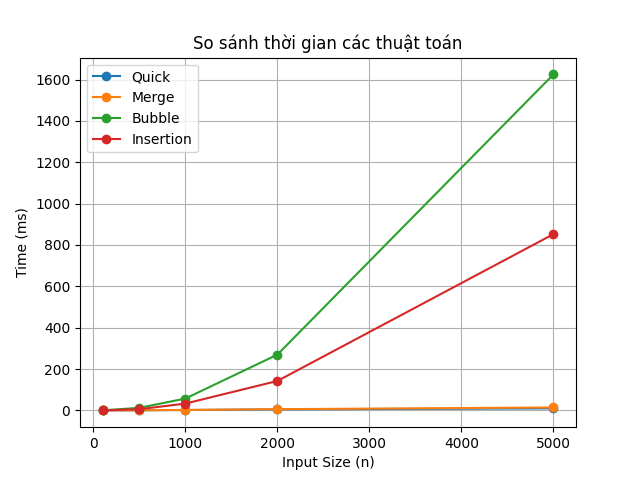
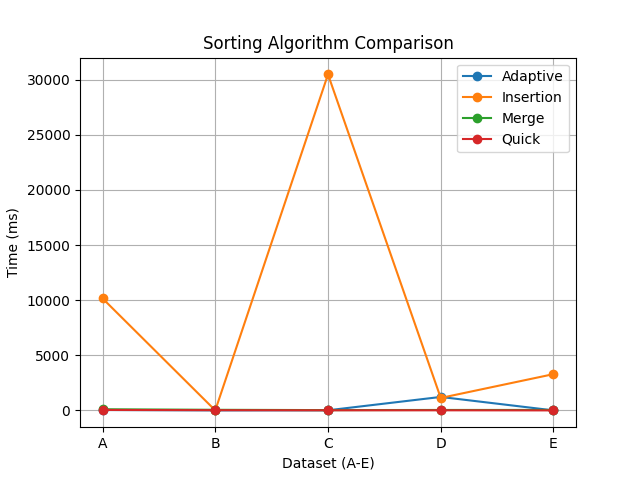
update experiment results and chart

diff --git a/experiment.py b/experiment.py
@@ -1,40 +1,57 @@
-import time
+import pandas as pd
 import random
+import time
 import csv
 import matplotlib.pyplot as plt
 
-# ======================
-# Các thuật toán mẫu
-# ======================
+# ================= DATASET =================
 
-def bubble_sort(arr):
-    a = arr.copy()
-    n = len(a)
-    for i in range(n):
-        for j in range(0, n - i - 1):
-            if a[j] > a[j + 1]:
-                a[j], a[j + 1] = a[j + 1], a[j]
-    return a
+def get_datasets(n=20000):
+    df = pd.read_csv("kc_house_data.csv")
+    price = df["price"].astype(int).tolist()[:n]
 
-def insertion_sort(arr):
-    a = arr.copy()
-    for i in range(1, len(a)):
-        key = a[i]
+    A = price.copy()
+    random.shuffle(A)
+
+    B = sorted(price)
+
+    C = B[::-1]
+
+    D = B.copy()
+    for _ in range(len(D) // 20):
+        i = random.randint(0, len(D)-1)
+        j = random.randint(0, len(D)-1)
+        D[i], D[j] = D[j], D[i]
+
+    E = [x % 1000 for x in price]
+
+    return {
+        "A": A,
+        "B": B,
+        "C": C,
+        "D": D,
+        "E": E
+    }
+
+# ================= SORT =================
+
+def insertion_sort(a):
+    arr = a.copy()
+    for i in range(1, len(arr)):
+        key = arr[i]
         j = i - 1
-        while j >= 0 and a[j] > key:
-            a[j + 1] = a[j]
+        while j >= 0 and arr[j] > key:
+            arr[j + 1] = arr[j]
             j -= 1
-        a[j + 1] = key
-    return a
+        arr[j + 1] = key
+    return arr
 
-def merge_sort(arr):
-    if len(arr) <= 1:
-        return arr
-
-    mid = len(arr) // 2
-    left = merge_sort(arr[:mid])
-    right = merge_sort(arr[mid:])
-
+def merge_sort(a):
+    if len(a) <= 1:
+        return a
+    mid = len(a)//2
+    left = merge_sort(a[:mid])
+    right = merge_sort(a[mid:])
     return merge(left, right)
 
 def merge(left, right):
@@ -42,114 +59,98 @@ def merge(left, right):
     i = j = 0
     while i < len(left) and j < len(right):
         if left[i] < right[j]:
-            result.append(left[i])
-            i += 1
+            result.append(left[i]); i += 1
         else:
-            result.append(right[j])
-            j += 1
-    result.extend(left[i:])
-    result.extend(right[j:])
+            result.append(right[j]); j += 1
+    result += left[i:]
+    result += right[j:]
     return result
 
-def quick_sort(arr):
-    if len(arr) <= 1:
-        return arr
-    pivot = arr[len(arr)//2]
-    left = [x for x in arr if x < pivot]
-    mid = [x for x in arr if x == pivot]
-    right = [x for x in arr if x > pivot]
+def quick_sort(a):
+    if len(a) <= 1:
+        return a
+    pivot = a[len(a)//2]
+    left = [x for x in a if x < pivot]
+    mid = [x for x in a if x == pivot]
+    right = [x for x in a if x > pivot]
     return quick_sort(left) + mid + quick_sort(right)
 
-# ======================
-# Tạo dữ liệu test
-# ======================
+# ================= ADAPTIVE =================
 
-def generate_datasets():
-    sizes = [100, 500, 1000, 2000, 5000]
-    datasets = []
+def is_nearly_sorted(arr):
+    disorder = sum(1 for i in range(len(arr)-1) if arr[i] > arr[i+1])
+    return disorder < len(arr) * 0.1
 
-    for size in sizes:
-        data = [random.randint(0, 10000) for _ in range(size)]
-        datasets.append((size, data))
+def adaptive_sort(a):
+    if is_nearly_sorted(a):
+        return insertion_sort(a)
+    else:
+        return quick_sort(a)
 
-    return datasets
+# ================= MEASURE =================
 
-# ======================
-# Đo thời gian
-# ======================
-
-def measure_time(func, data, repeats=5):
-    total_time = 0
+def measure_time(func, data, repeats=10):
+    total = 0
     for _ in range(repeats):
         arr = data.copy()
         start = time.perf_counter()
         func(arr)
         end = time.perf_counter()
-        total_time += (end - start)
-    avg_time = (total_time / repeats) * 1000  # ms
-    return avg_time
+        total += (end - start)
+    return (total / repeats) * 1000  # ms
 
-# ======================
-# Chạy thực nghiệm
-# ======================
+# ================= EXPERIMENT =================
 
 def run_experiment():
+    datasets = get_datasets()
+
     algorithms = {
-        "Bubble": bubble_sort,
         "Insertion": insertion_sort,
         "Merge": merge_sort,
-        "Quick": quick_sort
+        "Quick": quick_sort,
+        "Adaptive": adaptive_sort
     }
 
-    datasets = generate_datasets()
     results = []
 
-    for size, data in datasets:
-        for name, func in algorithms.items():
-            print(f"Running {name} with n={size}...")
-            avg_time = measure_time(func, data, repeats=5)
-            results.append([name, size, avg_time])
+    for dname, data in datasets.items():
+        for aname, func in algorithms.items():
+            print(f"Running {aname} on dataset {dname}...")
+            t = measure_time(func, data)
+            results.append([dname, aname, t])
 
     return results
 
-# ======================
-# Ghi CSV
-# ======================
+# ================= SAVE CSV =================
 
-def save_to_csv(results, filename="results.csv"):
-    with open(filename, mode='w', newline='') as file:
-        writer = csv.writer(file)
-        writer.writerow(["Algorithm", "Input Size", "Time (ms)"])
+def save_csv(results):
+    with open("results.csv", "w", newline="") as f:
+        writer = csv.writer(f)
+        writer.writerow(["Dataset", "Algorithm", "Time (ms)"])
         writer.writerows(results)
 
-# ======================
-# Vẽ biểu đồ
-# ======================
+# ================= PLOT =================
 
-def plot_results(results):
-    plt.figure()  # tạo figure mới
-
-    algorithms = list(set(r[0] for r in results))
+def plot(results):
+    datasets = sorted(set(r[0] for r in results))
+    algorithms = sorted(set(r[1] for r in results))
 
     for algo in algorithms:
-        x = [r[1] for r in results if r[0] == algo]
-        y = [r[2] for r in results if r[0] == algo]
-        plt.plot(x, y, marker='o', label=algo)
+        y = [next(r[2] for r in results if r[0]==d and r[1]==algo) for d in datasets]
+        plt.plot(datasets, y, marker='o', label=algo)
 
-    plt.xlabel("Input Size (n)")
+    plt.xlabel("Dataset (A-E)")
     plt.ylabel("Time (ms)")
-    plt.title("So sánh thời gian các thuật toán")
+    plt.title("Sorting Algorithm Comparison")
     plt.legend()
     plt.grid(True)
 
-    plt.savefig("chart.png")  # lưu ảnh trước
-    plt.show()               # hiển thị
+    plt.savefig("chart.png")
+    plt.show()
 
-# ======================
-# Main
-# ======================
+# ================= MAIN =================
 
 if __name__ == "__main__":
     results = run_experiment()
-    save_to_csv(results)
-    plot_results(results)
+    save_csv(results)
+    plot(results)
